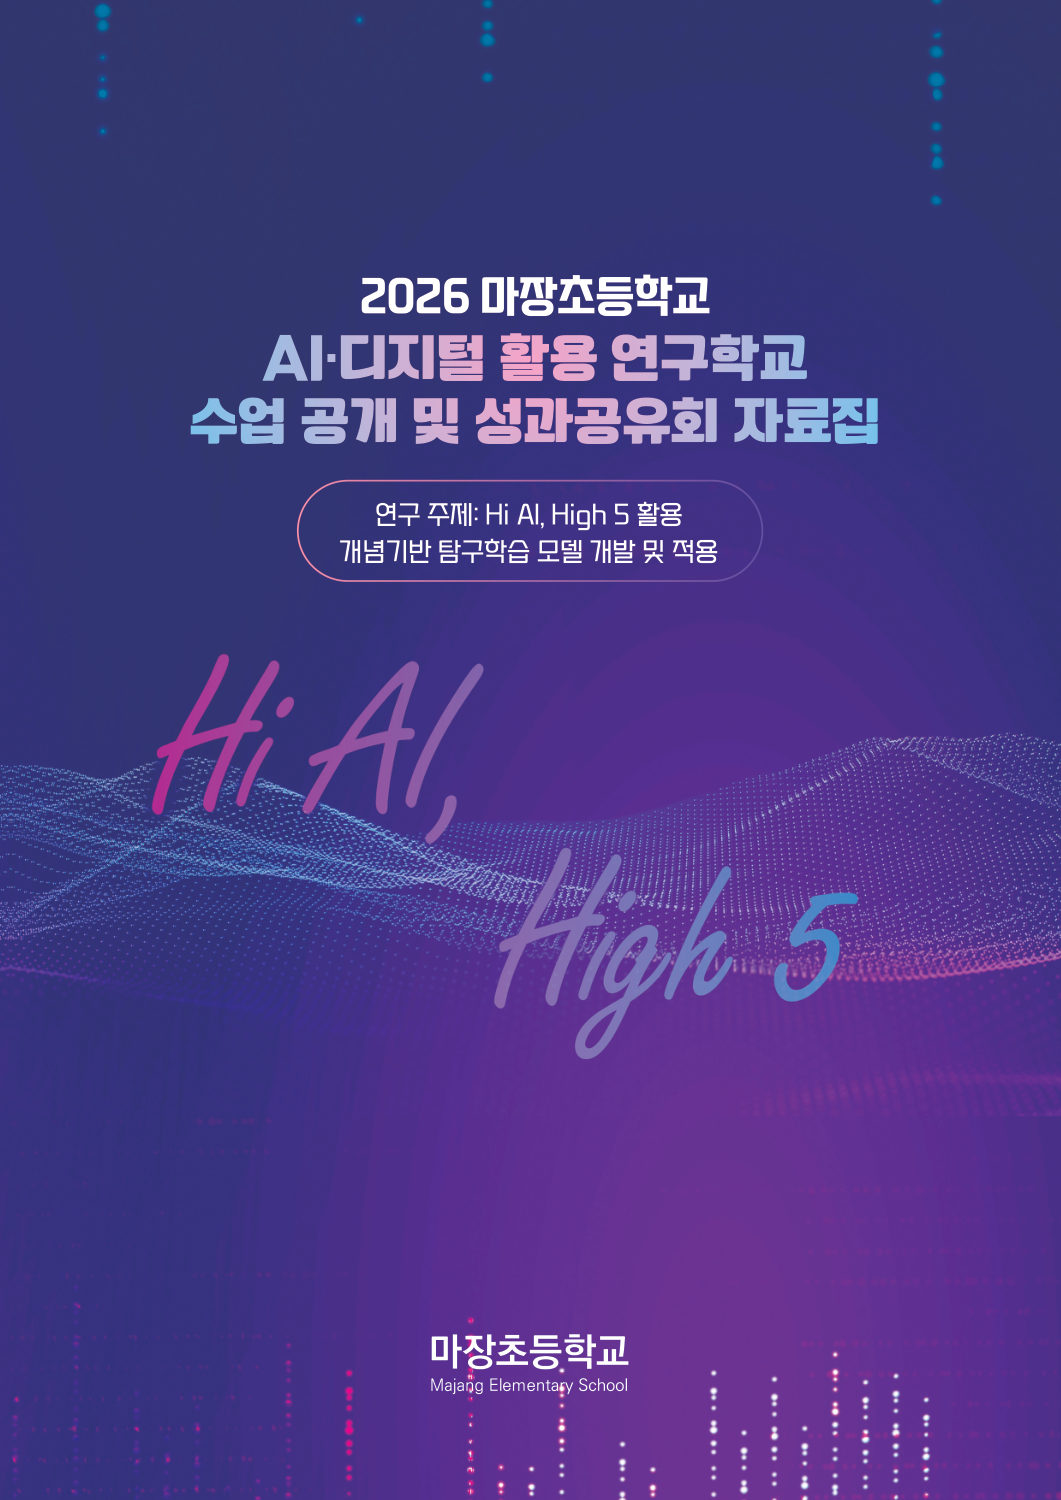
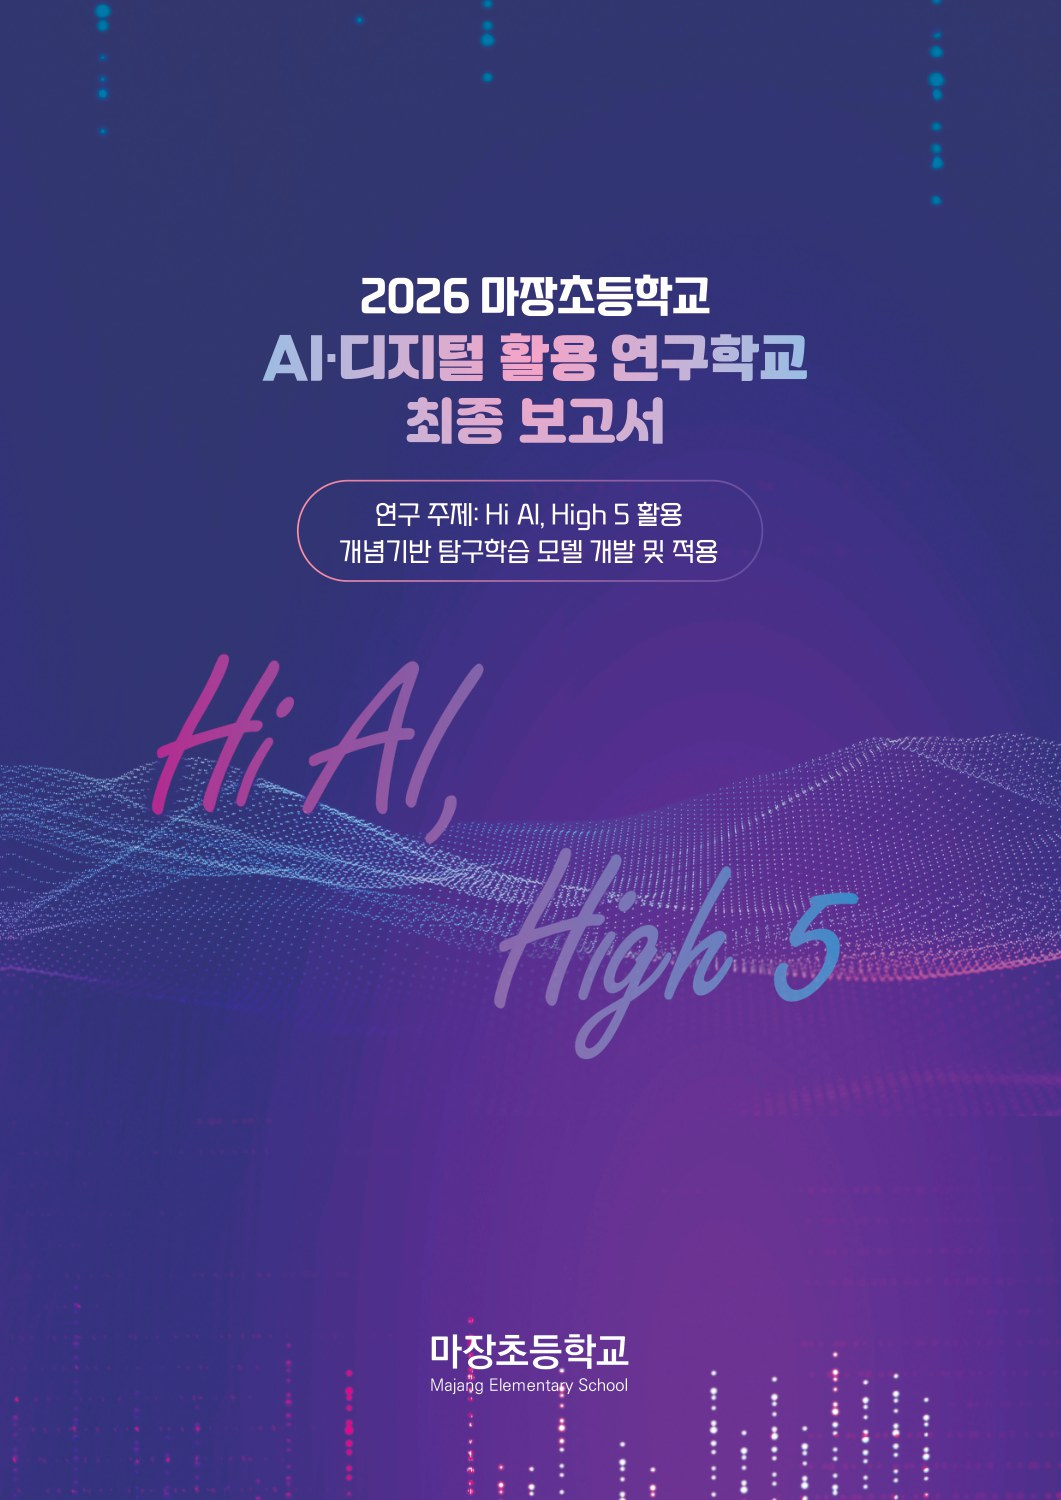
보고서 전자책 표지 교체 및 입구 이름 변경

Changed region(s): [[0.1866, 0.2453, 0.8398, 0.3067]]

diff --git a/index.html b/index.html
@@ -583,10 +583,10 @@ const EXHIBIT = {
           what: 'Hi AI가 무엇인지,<br>수업 속에서 학생 한 명 한 명을<br>어떻게 돕는지 소개합니다.',
           colors: ['#c2346b', '#e2669a'],
           links: [{ id: 'hiai', label: 'Hi AI 소개', view: 'hiai' }] },          // 아래 HIAI 내용이 나옵니다
-        { id: 'report', name: '연구학교<br>최종 보고서', tag: '전자책', icon: 'book',
+        { id: 'report', name: '마장초등학교<br>연구학교 최종 보고서', tag: '전자책', icon: 'book',
           what: '2026 AI·디지털 활용 연구학교<br>운영 결과 보고서를<br>책처럼 넘겨 보실 수 있습니다.',
           colors: ['#8a3aa8', '#b96ad6'],
-          links: [{ id: 'report', label: '최종 보고서', view: 'book' }] },   // 아래 REPORT 쪽 그림이 전자책으로 나옵니다
+          links: [{ id: 'report', label: '마장초등학교 AI·디지털 활용 연구학교 최종 보고서', view: 'book' }] },   // 아래 REPORT 쪽 그림이 전자책으로 나옵니다
         { id: 'site', name: '연구학교<br>홈페이지', tag: '웹페이지', icon: 'globe',
           what: '연구학교의 운영 내용과<br>교육활동을 한눈에<br>살펴볼 수 있습니다.',
           colors: ['#5643bd', '#8574e3'],
